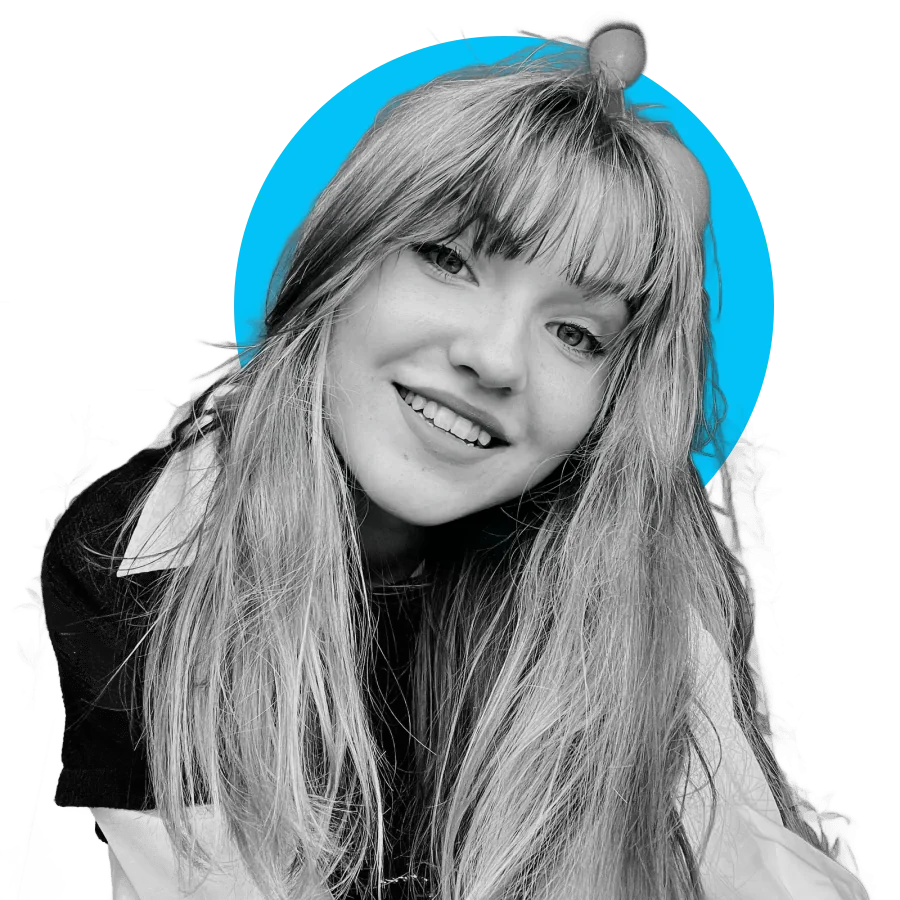
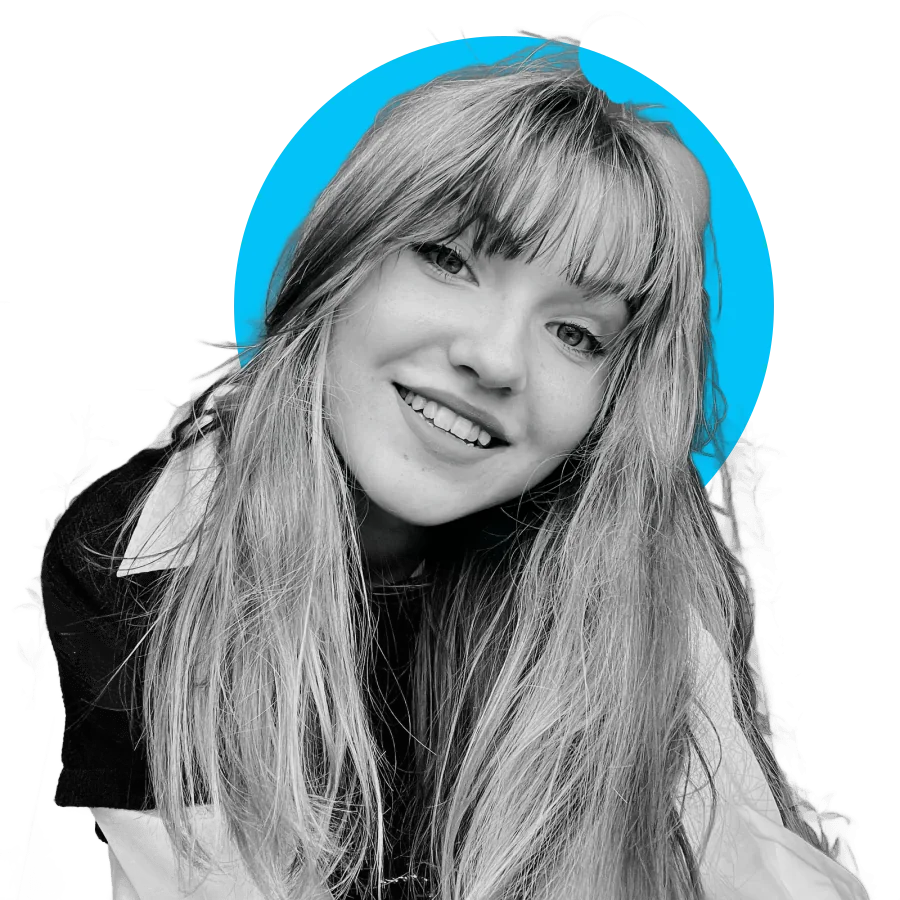
Contact and courses: team as cards, no frames on cutout portraits, course reasons grid
- /sazinies/: team as five lighter cards on the dark canvas (the band had
  no contrast); the section stays off the band like other card grids
- Katrina's portrait: the hair ball erased through a new erase option in
  brand-portraits.mjs (transparency only, no generated pixels)
- Cutout portraits lose their hairline frame (img--plain, media--cutout)
  on /sazinies/, the homepage, the Meta and Google Ads course pages
- /digitala-marketinga-kursi/: the five reasons as one grid with icons;
  the experts card shows the three instructors from courseSessions
- Reduced motion: the logo strip no longer lists every logo twice

Changed region(s): [[0.6222, 0.0, 0.7156, 0.1244]]

diff --git a/src/css/style.css b/src/css/style.css
@@ -499,7 +499,8 @@ main > .sec:first-child, main > section:first-child { border-top: 0; }
 .marquee-track { display: flex; align-items: center; gap: clamp(44px, 6vw, 80px); width: max-content; animation: marquee calc(36s * var(--motion)) linear infinite; padding: 6px 0; }
 .marquee-track img, .logo-row img { max-height: 44px; width: auto; display: block; margin: 0 auto; }
 @keyframes marquee { to { transform: translateX(-50%); } }
-@media (prefers-reduced-motion: reduce) { .marquee-track { animation: none; flex-wrap: wrap; width: auto; justify-content: center; } }
+@media (prefers-reduced-motion: reduce) { .marquee-track { animation: none; flex-wrap: wrap; width: auto; justify-content: center; } .marquee-track img[aria-hidden="true"] { display: none; } }
+/* ^ the second half of the track only exists to loop the scroll; static, it listed every logo twice */
 .marquee-label { font-size: var(--t-micro); letter-spacing: 0.14em; text-transform: uppercase; color: var(--muted); margin: 0 0 22px; }
 
 /* rows / columns (legacy generated grid) */
@@ -1432,6 +1433,8 @@ p + .row.reviews { margin-top: clamp(32px, 4vw, 48px); }
    ========================================================================== */
 .media { margin: 0; position: relative; overflow: hidden; border: 1px solid var(--line); border-radius: var(--radius); background: var(--card); }
 .media img { display: block; width: 100%; height: 100%; object-fit: cover; }
+/* A transparent team cutout: a hairline and a card fill around it draw a box around the person (owner, 4 Nov 2026: "remove frame around my head"). */
+.media--cutout { border: 0; background: none; }
 .media--wide { aspect-ratio: 3 / 2; }
 /* The LIAA price as a receipt (18 Sep 2026). Owner: the three equal numerals
    did not say what a buyer pays, gets back or is left with. The rows read as a
@@ -2398,3 +2401,41 @@ p + .row.reviews { margin-top: clamp(32px, 4vw, 48px); }
 .gate h3 { margin: 0 0 10px; }
 .gate .tick-list { margin: 14px 0 22px; }
 .gate .form-done { margin: 0; border: 0; padding: 0; background: none; }
+
+/* ==========================================================================
+   TEAM CARDS AND COURSE REASONS (4 Nov 2026)
+   ========================================================================== */
+/* /sazinies/ team as cards (owner: "make this section appear cooler; maybe in
+   cards"). The cutout stands on the card's floor line; no frame around it. */
+.team-grid--cards { display: grid; grid-template-columns: repeat(5, minmax(0, 1fr)); gap: 16px; }
+/* Lighter cards on the dark canvas (owner: "contrast is shit" when they sat
+   on the band): white 15:1, the role in body colour 10:1, card 1.29:1 off the page. */
+.team-grid--cards .team-card { width: auto; position: relative; display: flex; flex-direction: column; overflow: hidden; background: var(--band); border: 1px solid var(--line-strong); }
+.team-grid--cards .team-card p { color: var(--body); }
+.team-grid--cards .team-card img { max-width: none; width: 100%; margin: 20px 0 0; }
+.team-grid--cards .tc-body { flex: 1; padding: 18px 20px 22px; border-top: 1px solid var(--line-strong); }
+.team-grid--cards .team-card::after { content: ""; position: absolute; left: 0; right: 0; bottom: 0; height: 3px; background: var(--cyan); transform: scaleX(0); transform-origin: left; }
+.team-grid--cards .team-card:hover::after { transform: scaleX(1); }
+@media (prefers-reduced-motion: no-preference) {
+  .team-grid--cards .team-card img { transition: transform 0.5s var(--ease-out); transform-origin: bottom center; }
+  .team-grid--cards .team-card:hover img { transform: scale(1.04); }
+  .team-grid--cards .team-card::after { transition: transform 0.35s var(--ease-out); }
+}
+/* five cards never fill a row of three or two, so the short row centres */
+@media (max-width: 1020px) { .team-grid--cards { display: flex; flex-wrap: wrap; justify-content: center; } .team-grid--cards .team-card { flex: 0 0 calc((100% - 32px) / 3); } }
+@media (max-width: 640px) { .team-grid--cards { gap: 10px; } .team-grid--cards .team-card { flex-basis: calc((100% - 10px) / 2); } .team-grid--cards .tc-body { padding: 14px 14px 16px; } }
+
+/* Course reasons as one grid; the experts card is tall and shows the three
+   instructors (owner: "add icons ... and make it look cooler"). Not .hgrid--3,
+   whose empty-slot filler would add a sixth block to a full 3 x 2 grid. */
+.hgrid--feature { grid-template-columns: repeat(3, minmax(0, 1fr)); }
+.hgrid--feature > .cell--lead { grid-row: span 2; }
+@media (max-width: 980px) { .hgrid--feature { grid-template-columns: 1fr 1fr; } .hgrid--feature > .cell--lead { grid-row: auto; grid-column: 1 / -1; } }
+@media (max-width: 640px) { .hgrid--feature { grid-template-columns: 1fr; } }
+.tutors { list-style: none; margin: 28px 0 0; padding: 22px 0 0; border-top: 1px solid var(--line); display: grid; gap: 14px; }
+.tutors li { display: flex; align-items: center; gap: 14px; margin: 0; padding: 0; }
+.tutors li::before { content: none; }
+.tutors img { width: 64px; height: 64px; object-fit: cover; object-position: center top; flex: none; }
+.tutors span { display: flex; flex-direction: column; line-height: 1.35; }
+.tutors strong { color: var(--heading); font-family: var(--font-display); font-weight: 500; }
+.tutors small { color: var(--muted); }

diff --git a/src/pages/digitala-marketinga-kursi.html b/src/pages/digitala-marketinga-kursi.html
@@ -62,24 +62,48 @@ permalink: "/digitala-marketinga-kursi/"
         <p>Kursi notiek grupās no {{ courseSessions.policy.minSeats }} dalībniekiem. Komandām: raksti, sagatavosim piedāvājumu.</p>
       </div>
     </div>
-    <div class="row cols-3 top">
-      <div class="col">
-        <div class="blurb"><h3>Mācies no pieredzējušiem ekspertiem</h3><p>Kursus vada praktiķi, kas ikdienā pārvalda reālas kampaņas. Jautājumus par savu biznesu uzdod cilvēkam, kurš to dara katru dienu.</p></div>
+    {#- The five reasons as one grid (4 Nov 2026, owner: "add icons ... and make
+        it look cooler"). The experts card leads and shows the three real
+        instructors, read from courseSessions like every other course fact. #}
+    <div class="hgrid hgrid--feature">
+      <div class="cell cell--lead">
+        <span class="card-icon">{% icon "school" %}</span>
+        <span class="cell-idx">01</span>
+        <h3>Mācies no pieredzējušiem ekspertiem</h3>
+        <p>Kursus vada praktiķi, kas ikdienā pārvalda reālas kampaņas. Jautājumus par savu biznesu uzdod cilvēkam, kurš to dara katru dienu.</p>
+        <ul class="tutors">
+          {%- for t in [["meta-reklamas-kurss", "rihards-brand"], ["google-ads-kurss", "kristaps-brand"], ["seo-kursi", "matiss-seo-brand"]] %}
+          {%- set c = courseSessions.courses[t[0]] %}
+          <li><img src="/img/team/{{ t[1] }}.webp" alt="" loading="lazy" width="900" height="900"><span><strong>{{ c.instructor }}</strong><small>{{ c.name }}</small></span></li>
+          {%- endfor %}
+        </ul>
       </div>
-      <div class="col">
-        <div class="blurb"><h3>Pieeja jaunākajām tendencēm un rīkiem</h3><p>Saņemsi aktuālu informāciju par jaunākajām digitālā mārketinga metodēm, platformām un stratēģijām.</p></div>
+      <div class="cell">
+        <span class="card-icon">{% icon "lightbulb" %}</span>
+        <span class="cell-idx">02</span>
+        <h3>Pieeja jaunākajām tendencēm un rīkiem</h3>
+        <p>Saņemsi aktuālu informāciju par jaunākajām digitālā mārketinga metodēm, platformām un stratēģijām.</p>
       </div>
-      <div class="col">
-        <div class="blurb"><h3>Efektīva un fokusēta programma</h3><p>Strukturēts apmācību plāns ar teoriju, praktisko darbu un Q&amp;A sesijām.</p></div>
+      <div class="cell">
+        <span class="card-icon">{% icon "fact_check" %}</span>
+        <span class="cell-idx">03</span>
+        <h3>Efektīva un fokusēta programma</h3>
+        <p>Strukturēts apmācību plāns ar teoriju, praktisko darbu un Q&amp;A sesijām.</p>
+      </div>
+      <div class="cell">
+        <span class="card-icon">{% icon "monitoring" %}</span>
+        <span class="cell-idx">04</span>
+        <h3>Pielietojamas zināšanas un reāls rezultāts</h3>
+        <p>Konkrēti soļi un metodes, kas palīdzēs palielināt pārdošanu, piesaistīt vairāk klientu un optimizēt mārketinga izmaksas.</p>
+      </div>
+      <div class="cell">
+        <span class="card-icon">{% icon "forum" %}</span>
+        <span class="cell-idx">05</span>
+        <h3>Pēc kursa</h3>
+        <p>Kursi ir praktiski, tāpēc lielākā daļa darba sākas pēc nodarbības. Ja gribi izrunāt tieši savu kontu, tam ir maksas konsultācija: {% offer "60", "hours" %} par {% offer "60" %}.</p>
+        <a class="arrow-link" href="/marketinga-konsultacijas/">Par konsultāciju</a>
       </div>
     </div>
-    <div class="row cols-2 top">
-      <div class="col">
-        <div class="blurb"><h3>Pēc kursa</h3><p>Kursi ir praktiski, tāpēc lielākā daļa darba sākas pēc nodarbības. Ja gribi izrunāt tieši savu kontu, tam ir maksas konsultācija: {% offer "60", "hours" %} par {% offer "60" %}.</p></div>
-      </div>
-      <div class="col">
-        <div class="blurb"><h3>Pielietojamas zināšanas un reāls rezultāts</h3><p>Konkrēti soļi un metodes, kas palīdzēs palielināt pārdošanu, piesaistīt vairāk klientu un optimizēt mārketinga izmaksas.</p></div>
-      </div>
     </div>
   </div>
 </section>

diff --git a/src/pages/sazinies.html b/src/pages/sazinies.html
@@ -91,35 +91,30 @@ permalink: "/sazinies/"
     <div class="sec-head">
       <div>
         <span class="eyebrow"><span class="idx">01</span> Kas mēs esam</span>
-        <h2>Mūsu komanda</h2>
+        <h2>Mūsu <em>komanda</em></h2>
       </div>
       <p class="lead">Mārketinga entuziasti ar mērķi palīdzēt Latvijas MVU augt un konkurēt gan Latvijas tirgū, gan ārpus tā robežām.</p>
     </div>
-    <div class="team-grid">
+    <div class="team-grid team-grid--cards">
       <div class="team-card">
         <img src="/img/team/rihards-brand.webp" alt="Rihards Zeiļa" loading="lazy">
-        <h3>Rihards Zeiļa</h3>
-        <p>Aģentūras vadītājs</p>
+        <div class="tc-body"><h3>Rihards Zeiļa</h3><p>Aģentūras vadītājs</p></div>
       </div>
       <div class="team-card">
         <img src="/img/team/roberts-brand.webp" alt="Roberts Lūsiņš" loading="lazy">
-        <h3>Roberts Lūsiņš</h3>
-        <p>Meta reklāmas speciālists</p>
+        <div class="tc-body"><h3>Roberts Lūsiņš</h3><p>Meta reklāmas speciālists</p></div>
       </div>
       <div class="team-card">
         <img src="/img/team/kristaps-brand.webp" alt="Kristaps Apeināns" loading="lazy">
-        <h3>Kristaps Apeināns</h3>
-        <p>Google reklāmas speciālists</p>
+        <div class="tc-body"><h3>Kristaps Apeināns</h3><p>Google reklāmas speciālists</p></div>
       </div>
       <div class="team-card">
         <img src="/img/team/matiss-brand.webp" alt="Matīss Seipulāns" loading="lazy">
-        <h3>Matīss Seipulāns</h3>
-        <p>SEO speciālists</p>
+        <div class="tc-body"><h3>Matīss Seipulāns</h3><p>SEO speciālists</p></div>
       </div>
       <div class="team-card">
         <img src="/img/team/katrina-brand.webp" alt="Katrīna Malacanova" loading="lazy">
-        <h3>Katrīna Malacanova</h3>
-        <p>Grafiskā dizainere</p>
+        <div class="tc-body"><h3>Katrīna Malacanova</h3><p>Grafiskā dizainere</p></div>
       </div>
     </div>
   </div>
@@ -129,7 +124,7 @@ permalink: "/sazinies/"
   <div class="container">
     <div class="row cols-2 top">
       <div class="col">
-        <figure class="img"><img src="/img/team/rihards-wide-brand.webp" alt="Rihards Zeiļa" loading="lazy"></figure>
+        <figure class="img img--plain"><img src="/img/team/rihards-wide-brand.webp" alt="Rihards Zeiļa" loading="lazy"></figure>
       </div>
       <div class="col">
         <span class="eyebrow"><span class="idx">02</span> Par Rihardu</span>

diff --git a/src/pages/meta-reklamas-kurss.html b/src/pages/meta-reklamas-kurss.html
@@ -273,7 +273,7 @@ image: "/img/2024/04/L15abIxRLoo57p4DsV1Q_Copy-of-Vai-pedeja-laika-esi-saskaries
     </div>
     <div class="row cols-2 top">
       <div class="col">
-        <figure class="media media--crop-top"><img src="/img/team/rihards-founder-brand.webp" alt="Rihards Zeiļa, Mārketinga Skolas dibinātājs" loading="lazy"></figure>
+        <figure class="media media--crop-top media--cutout"><img src="/img/team/rihards-founder-brand.webp" alt="Rihards Zeiļa, Mārketinga Skolas dibinātājs" loading="lazy"></figure>
       </div>
       <div class="col">
         <p>Strādājis kā Apvienoto Nāciju konsultants Gambijā, Kenijā, Palestīnā un Jordānijā, apmācot pašnodarbinātos un uzņēmējus digitālā mārketinga sfērā. Veidojis kursa “Digitālais Mārketings” saturu un pasniedzis lekcijas RISEBA BA studentiem.</p>

diff --git a/eleventy.config.js b/eleventy.config.js
@@ -532,7 +532,8 @@ module.exports = function (eleventyConfig) {
             // the lighter band read as "too much of a mix", even with the
             // cards taking the band's colour). The band is for sections of
             // running text, steps and FAQs; a grid of cards is already divided.
-            : !/\bsec\b/.test(cls) || /class="[^"]*\bmotif\b/.test(inner) || /class="hgrid\b/.test(inner) ? "keep"
+            // The /sazinies/ team cards too (4 Nov 2026: on the band they had no contrast).
+            : !/\bsec\b/.test(cls) || /class="[^"]*\bmotif\b/.test(inner) || /class="(?:hgrid|team-grid)\b/.test(inner) ? "keep"
             : "plain";
           found.push(start);
           start = null;

diff --git a/src/pages/google-ads-kurss.html b/src/pages/google-ads-kurss.html
@@ -226,7 +226,7 @@ image: "/img/gen/og-google-ads-kurss.webp"
     </div>
     <div class="row cols-2 top">
       <div class="col">
-        <figure class="media media--portrait"><img src="/img/team/kristaps-brand.webp" alt="Kristaps Apeināns, Google reklāmas speciālists" loading="lazy"></figure>
+        <figure class="media media--portrait media--cutout"><img src="/img/team/kristaps-brand.webp" alt="Kristaps Apeināns, Google reklāmas speciālists" loading="lazy"></figure>
       </div>
       <div class="col">
         <p>Mārketinga Skolas Google reklāmas speciālists. Ikdienā strādā ar meklēšanas, Shopping un Performance Max kampaņām dažādu nozaru klientiem.</p>

diff --git a/src/pages/index.html b/src/pages/index.html
@@ -151,7 +151,7 @@ image: "/img/2025/03/Title-1.png"
     </div>
     <div class="row cols-2 top">
       <div class="col">
-        <figure class="media media--portrait media--crop-top"><img src="/img/team/rihards-founder-brand.webp" alt="Rihards Zeiļa, Mārketinga Skolas dibinātājs" loading="lazy" width="900" height="1200"></figure>
+        <figure class="media media--portrait media--crop-top media--cutout"><img src="/img/team/rihards-founder-brand.webp" alt="Rihards Zeiļa, Mārketinga Skolas dibinātājs" loading="lazy" width="900" height="1200"></figure>
       </div>
       <div class="col">
         <div class="steps">

diff --git a/CLAUDE.md b/CLAUDE.md
@@ -4451,6 +4451,39 @@ are in the vault, not here) and a viewport-by-viewport design audit.
   640px; the automation try-card is sticky on desktop; `.tick-list--2col`.
 - The phone number is written with a no-break space so "+371" never strands.
 
+## "More like an agency": first attempt rejected (3 Nov 2026)
+
+Owner: *"make it feel slightly more like an agency website, currently it barely
+reads as one."* Built and shown as screenshots, then rejected outright: *"I dont
+like it at all."* So nobody rebuilds it: four portfolio case cards with the
+clients' own banners and two figures each straight under the hero, all six
+services as motif tiles, a five-person team row, courses as icon cards without
+artwork, the hero's ghost button to `/portfolio/`, and "Sazinies" as a ghost
+button in the header. Everything was reverted; ask what "agency" means to the
+owner before the next attempt. (Kept from the exercise: the reduced-motion
+logo strip no longer lists every logo twice.)
+
+## Team cards, no frames on cutouts, course reasons grid (4 Nov 2026)
+
+- **A cutout portrait never sits in a bordered box.** Owner: *"remove frame
+  around my head"*. `.img img` and `.media` both draw a hairline (and `.media`
+  a card fill), which around a transparent cutout is a square frame. Use
+  `img--plain` or `media--cutout`; the founder photo on `/sazinies/`, the
+  homepage process figure, the Meta and Google Ads course pages all do now.
+- **`brand-portraits.mjs` takes `erase: [{x, y, r}]`** (900px square): circles
+  the cutout drops, so the backdrop shows there. Transparency only, never new
+  pixels, so the "faces are never generated" rule holds. Used once, for the hair
+  ball on top of Katrīna's head (*"remove blob from katrīnas head"*).
+- **`/sazinies/` team is five cards** (`.team-grid--cards`, owner: *"make this
+  section appear cooler; maybe in cards"*): photo standing on the card's floor
+  line, name and role below, a cyan bar wiping in on hover. Five in a row on
+  desktop; three and two from 1020px down, with the short row centred.
+- **The course hub's five reasons are one grid** (`.hgrid--feature`, owner:
+  *"add icons ... and make it look cooler"*): the experts card is tall and lists
+  the three real instructors with their photos, read from `courseSessions.json`;
+  "Pēc kursa" links to the paid consultation. Not `.hgrid--3`, whose empty-slot
+  filler would add a sixth block to a full 3 x 2 grid.
+
 ## Copy rules
 
 - **Consultation policy** (owner, 21 Aug 2026 — supersedes the earlier
